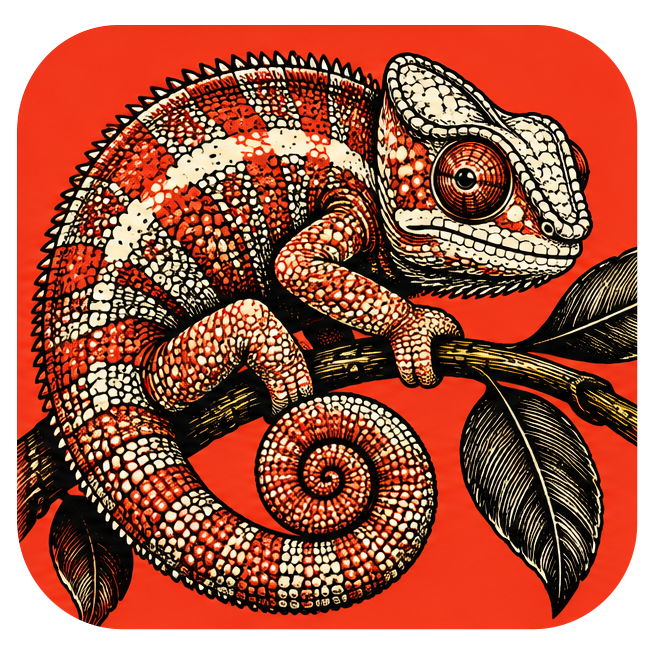
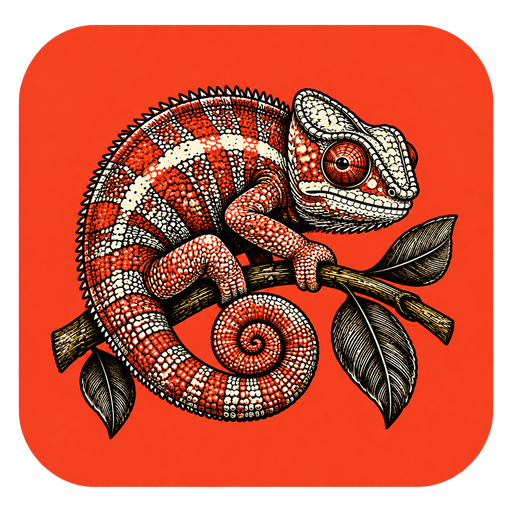
Branding: apply approved corrected SkinStrike artwork

diff --git a/scripts/check_approved_branding.py b/scripts/check_approved_branding.py
@@ -1,0 +1,26 @@
+"""Approved 2026-10-25 branding contract. Requires Pillow; does not modify files."""
+from pathlib import Path
+from hashlib import sha256
+import json
+import unittest
+from PIL import Image
+ROOT = Path(__file__).resolve().parents[1]
+APP = 'SkinStrike'
[1 lines of base64/hex data omitted]
+class ApprovedBranding(unittest.TestCase):
+    def test_exact_approved_source_and_readme(self):
+        p = ROOT / 'assets/branding' / (APP + '.png')
+        self.assertEqual(sha256(p.read_bytes()).hexdigest(), APPROVED)
+        with Image.open(p) as image:
+            self.assertEqual(image.size, (512,512))
+        self.assertIn('assets/branding/' + APP + '.png', (ROOT/'README.md').read_text())
+        self.assertEqual(json.loads((p.parent/'provenance.json').read_text())['sha256'], APPROVED)
+    def test_runtime_derivative_and_binding(self):
+        source = Image.open(ROOT/'assets/branding'/(APP+'.png')).convert('RGBA')
+        raw = ROOT/'assets/branding'/(APP+'-128.rgba')
+        self.assertTrue(raw.exists(), 'runtime derivative absent')
+        self.assertEqual(raw.read_bytes(), source.resize((128,128),Image.Resampling.LANCZOS).tobytes())
+        self.assertIn(APP+'-128.rgba', (ROOT/'src/bin/skinstrike-ui.rs').read_text())
+
+if __name__ == "__main__":
+    unittest.main()

diff --git a/src/bin/skinstrike-ui.rs b/src/bin/skinstrike-ui.rs
@@ -114,6 +114,11 @@ fn main() -> ExitCode {
     };
     let mut options = eframe::NativeOptions {
         viewport: egui::ViewportBuilder::default()
+            .with_icon(egui::IconData {
+                rgba: include_bytes!("../../assets/branding/SkinStrike-128.rgba").to_vec(),
+                width: 128,
+                height: 128,
+            })
             .with_inner_size([1440.0, 900.0])
             .with_min_inner_size([960.0, 620.0]),
         ..Default::default()

diff --git a/scripts/generate_brand_icon.py b/scripts/generate_brand_icon.py
@@ -1,0 +1,7 @@
+"""Resize the full approved canvas, retaining proportions, centering and padding."""
+from pathlib import Path
+from PIL import Image
+ROOT = Path(__file__).resolve().parents[1]
+APP = 'SkinStrike'
+image = Image.open(ROOT/'assets/branding'/(APP+'.png')).convert('RGBA')
+(ROOT/'assets/branding'/(APP+'-128.rgba')).write_bytes(image.resize((128,128),Image.Resampling.LANCZOS).tobytes())

diff --git a/README.md b/README.md
@@ -1,5 +1,5 @@
 <p align="center">
-  <img src="assets/branding/SkinStrike.png" alt="Original SkinStrike chameleon logo" width="160" height="160">
+  <img src="assets/branding/SkinStrike.png" alt="Approved SkinStrike chameleon logo" width="160" height="160">
 </p>
 
 <h1 align="center">SkinStrike</h1>
